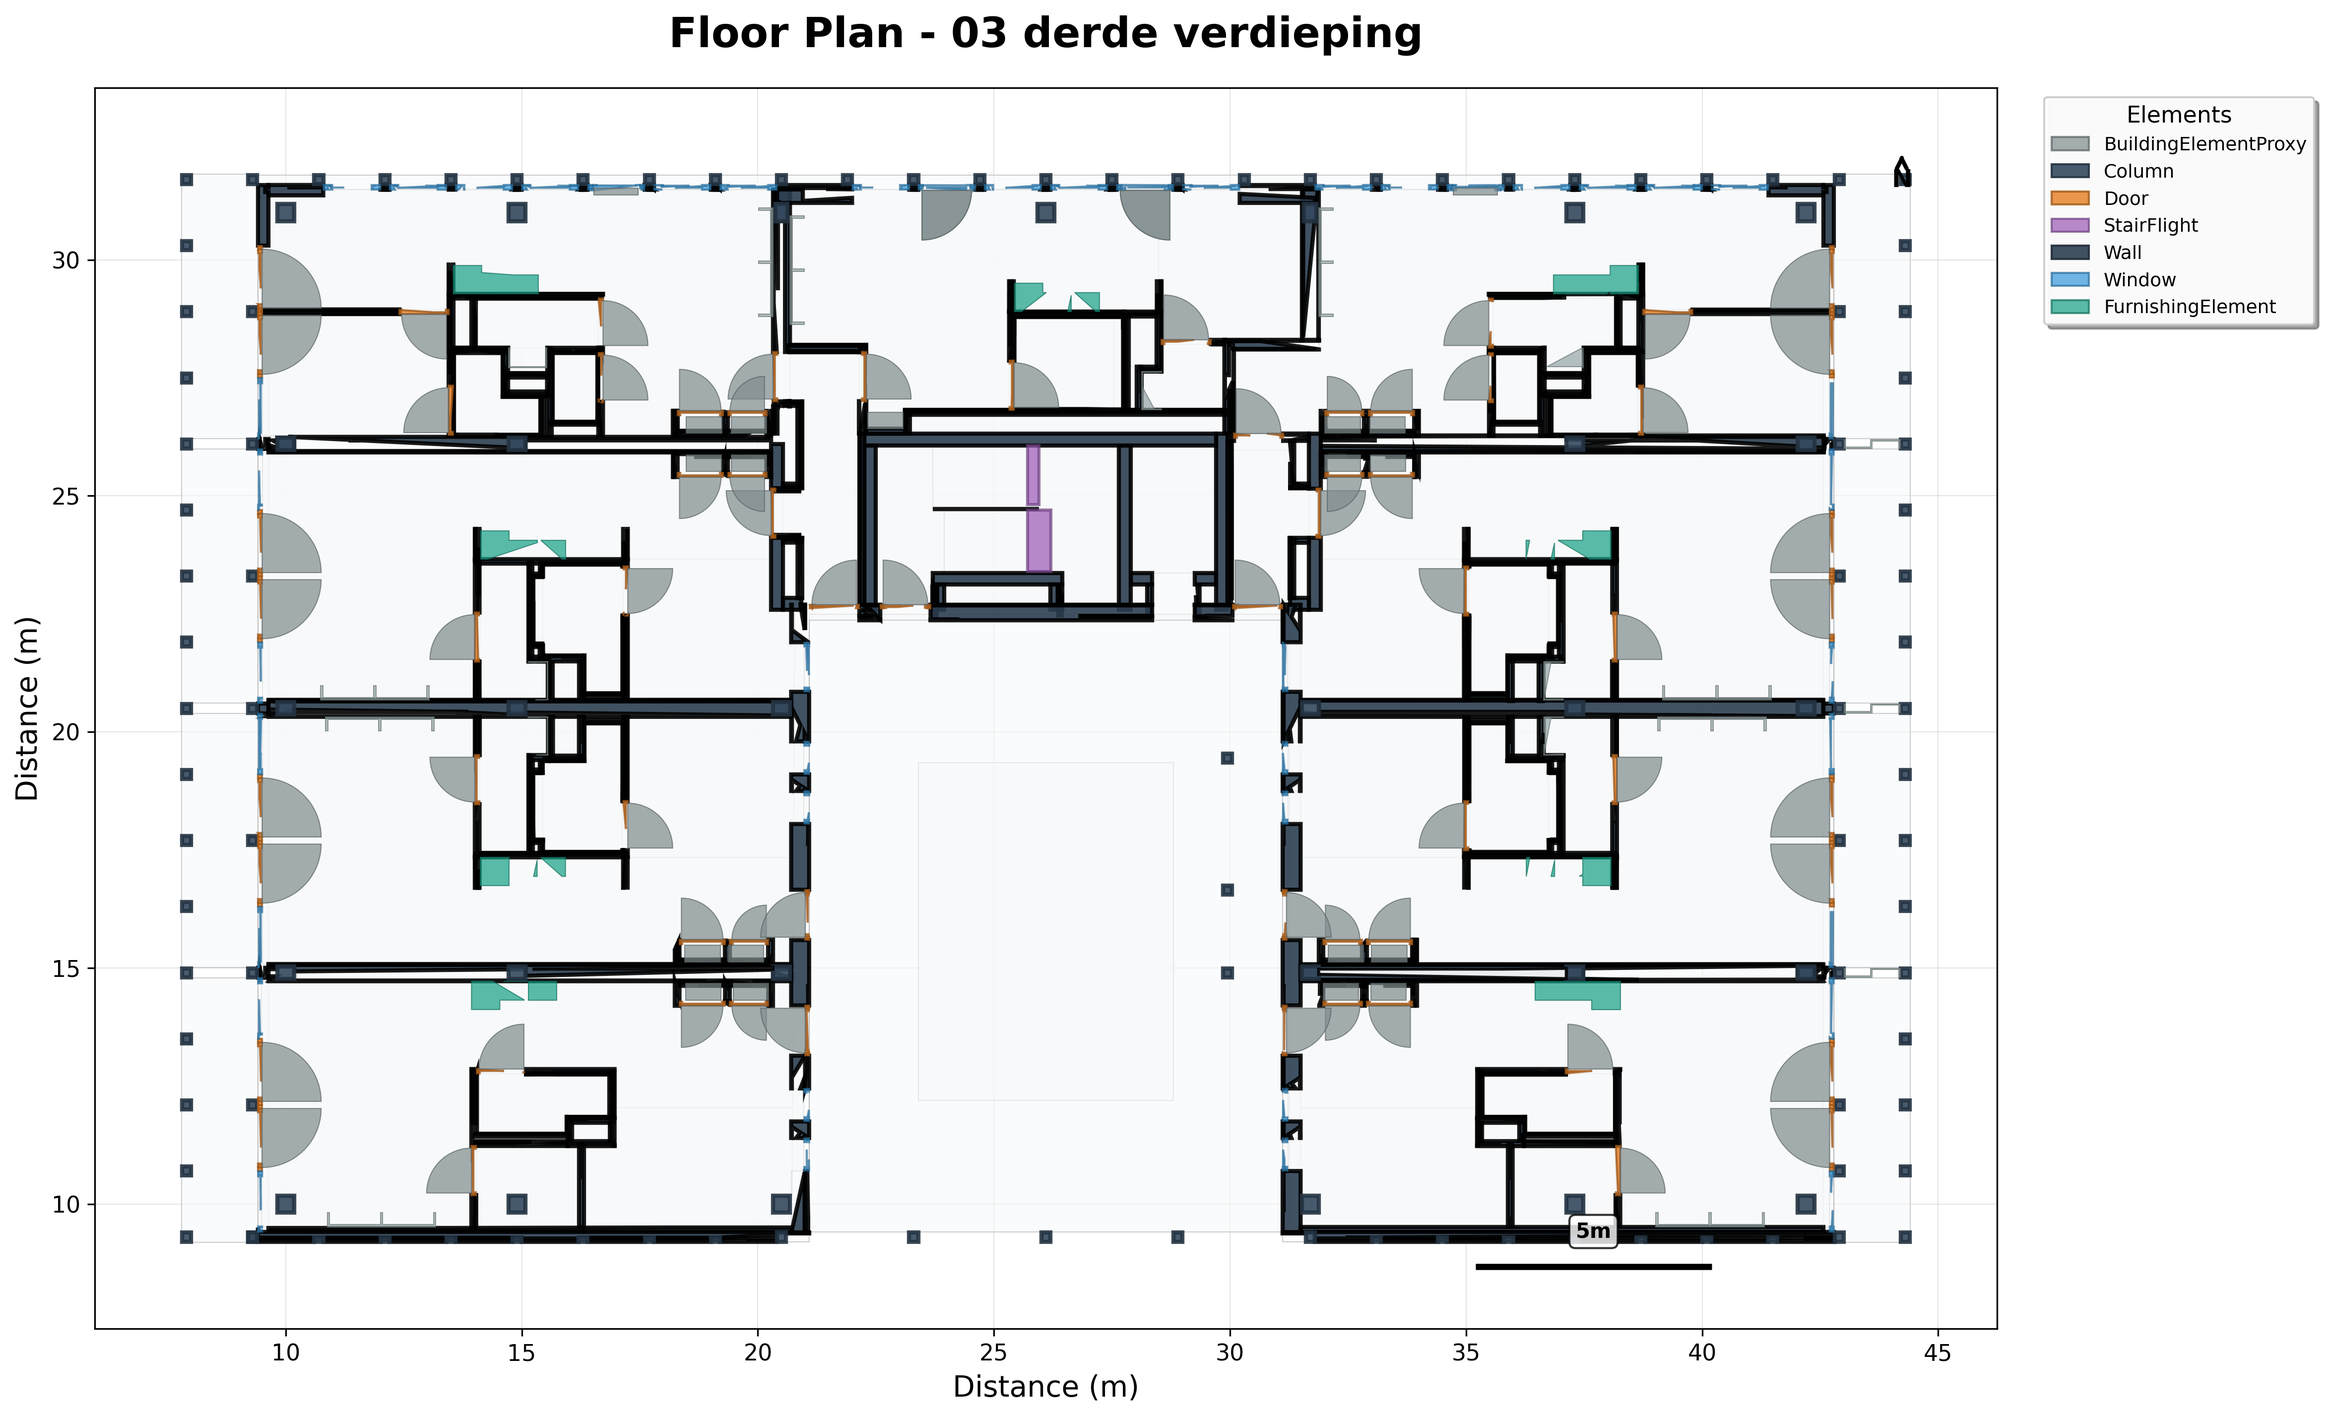
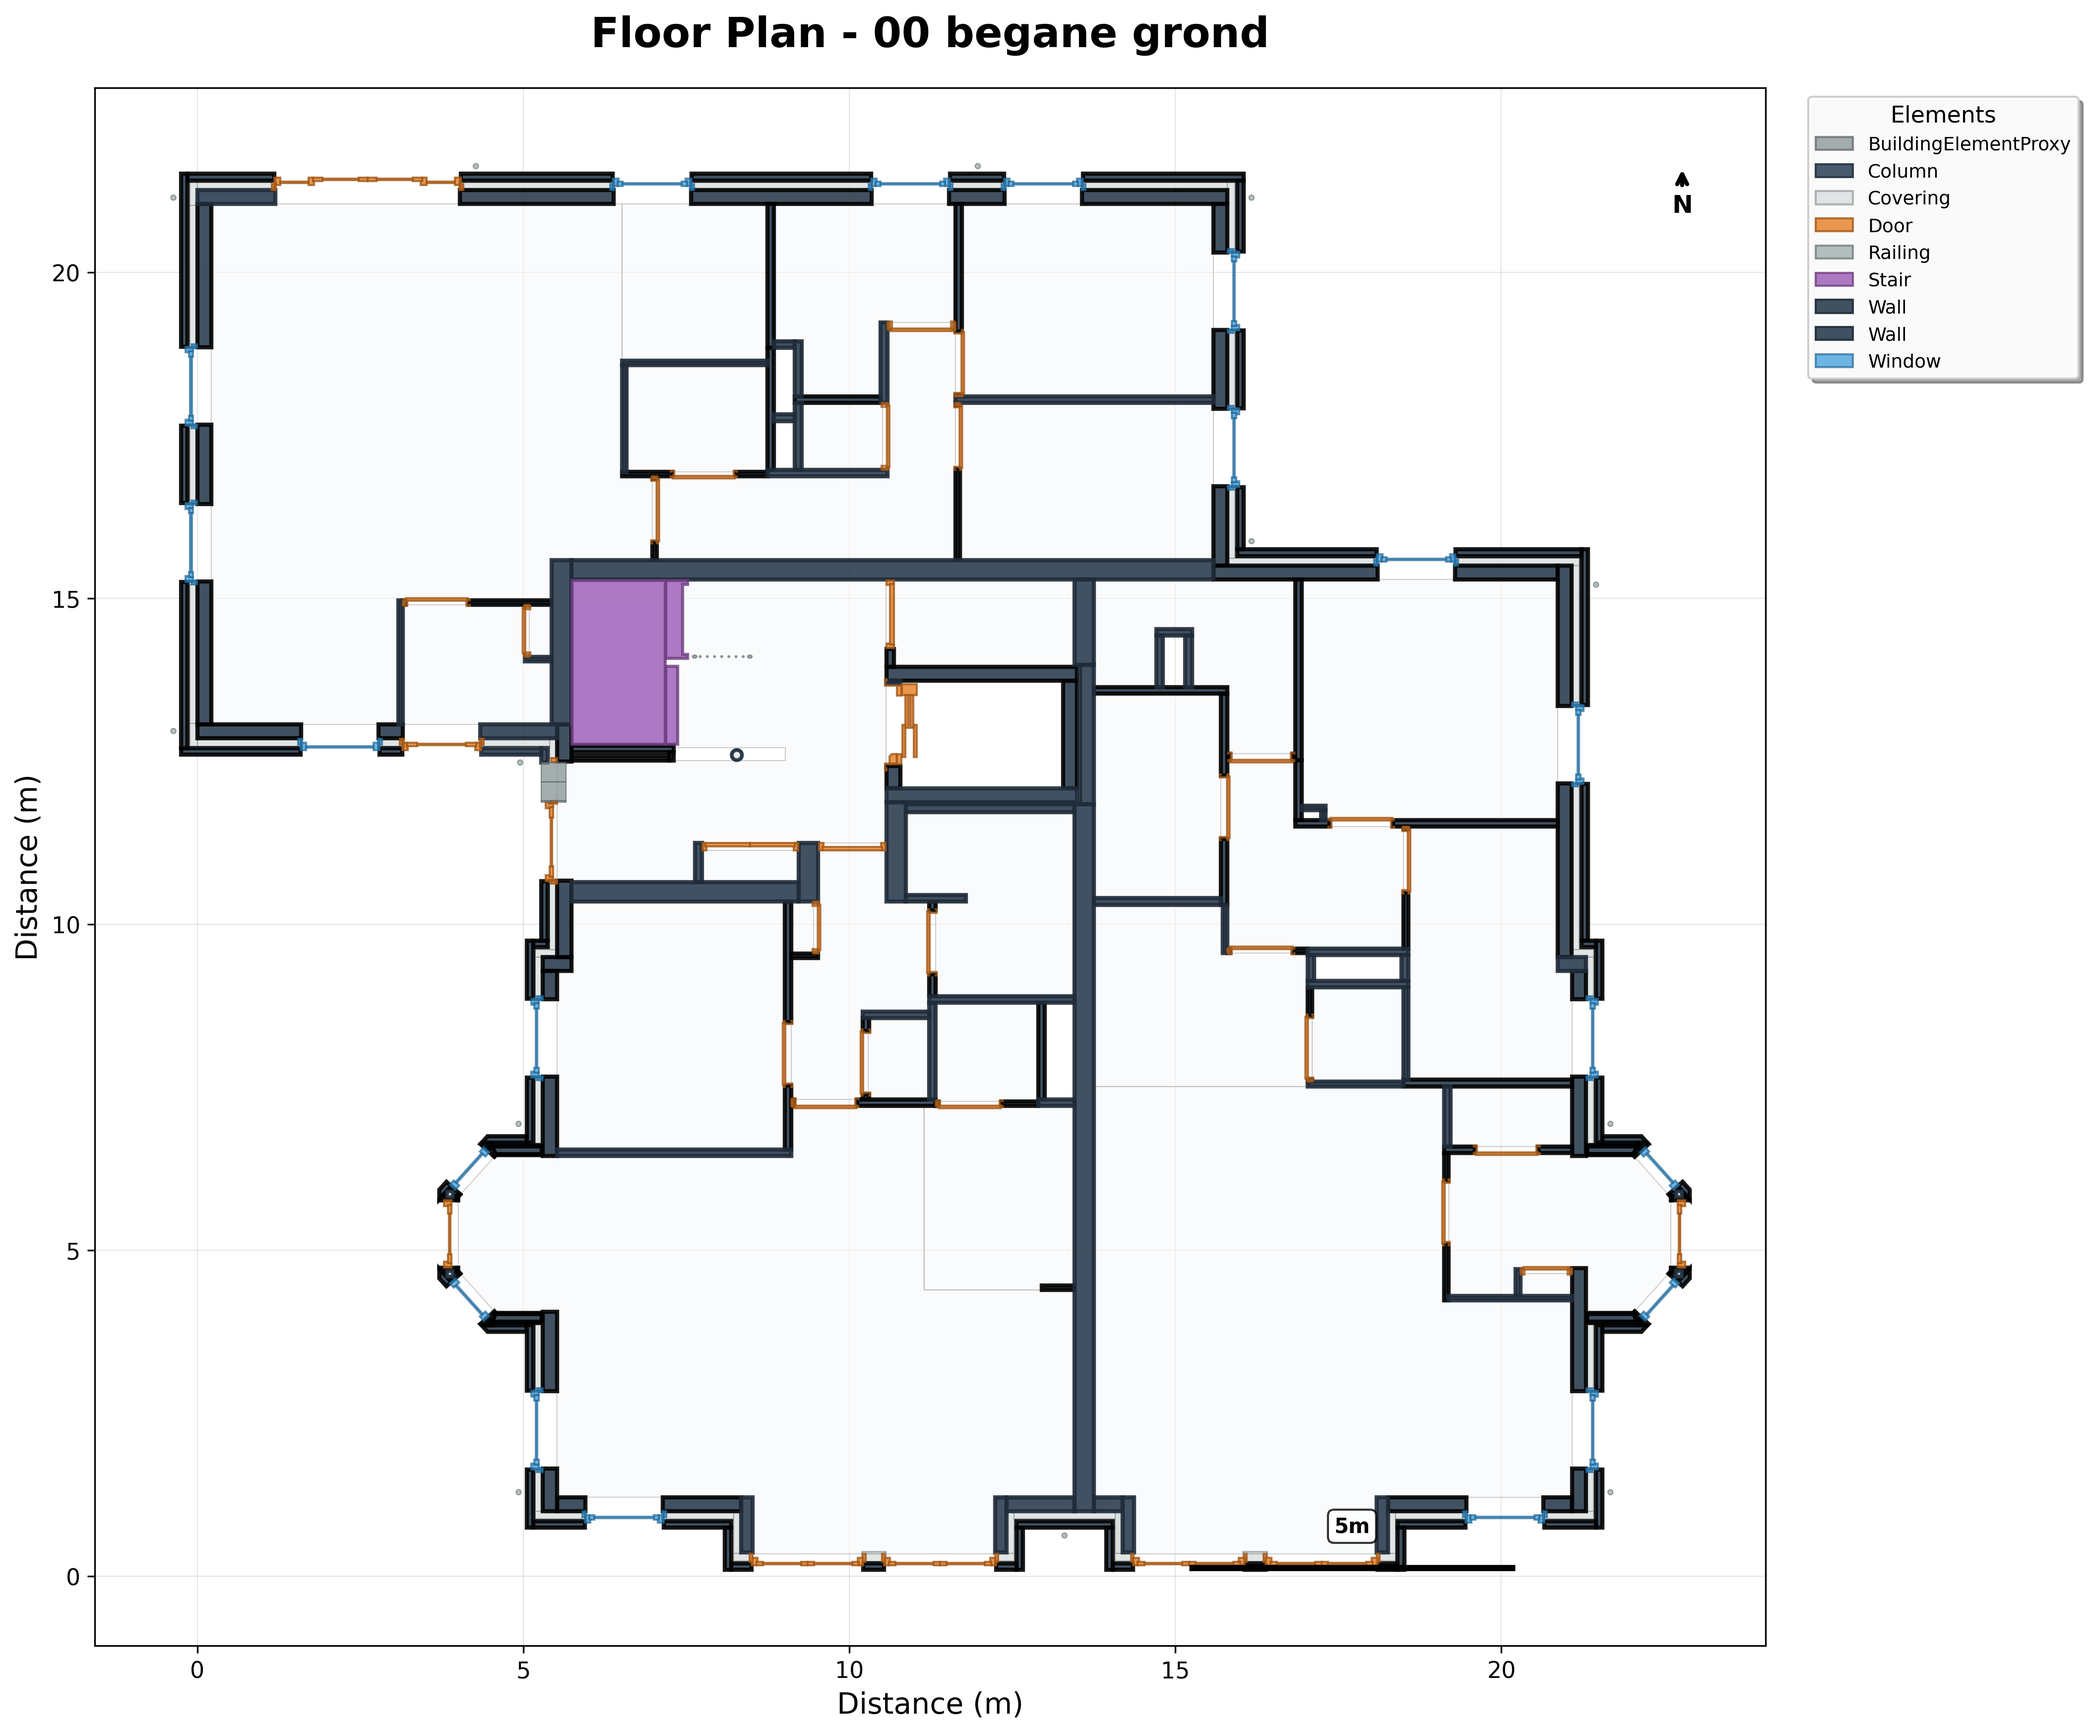
Regenerate the README example images
The three images in assets/ dated from 27 July, before the geometry fixes. They
also came from a model that is not in this repository — a 45 m block with an
inner courtyard, storey "03 derde verdieping" — so nobody reading the README
could reproduce or check them, and the technical view showed the torn door and
window outlines that the vertex-welding fix (#5) removed.

Regenerate all three from the bundled Schependomlaan model instead, ground
floor, so every picture in the README is reproducible with a command the README
itself gives:

  assets/professional.png          --storey 1 --formatter image
  assets/professional_colored.png  --storey 1 --formatter image wkt \
                                   --colored-spaces \
                                   --naming-conversion naming_conversion.csv
  assets/technical.png             --storey 1 --formatter image --style technical

Both quick-start examples were re-pointed from storey 2 to storey 1 to match,
and the output listing now shows the filenames that ground floor produces. The
first two commands were run and their output compared pixel-by-pixel against the
committed files: identical.

Also lift the coloured plan to the top of the README. The audience is people
deciding whether this tool does what they need; a picture answers that faster
than three paragraphs.

Assets shrink from 1.7 MB to 865 KB. (These are the README's own illustrations,
which have always been tracked - not run output, which stays out of git.)

diff --git a/README.md b/README.md
@@ -10,6 +10,11 @@ For each storey of a model, ifc2plan cuts a horizontal section through the build
 - a **floor plan image** (PNG), in one of four drawing styles, optionally coloured by room type
 - a **table of the shapes** (CSV), one row per element, so you can measure, count, or feed it into other tools
 
+![Floor plan of the ground floor of the bundled example model, with rooms coloured by type](assets/professional_colored.png)
+
+*The ground floor of the example building included in this repository — produced by step 3
+below, unedited.*
+
 ## Install
 
 You need **Python 3.9 or newer**.
@@ -35,18 +40,20 @@ elements each one has, and tells you the storey numbers you'll need.
 python src/ifc2plan/extract_floor_plans.py "examples/data/Shependomlaan/IFC Schependomlaan.ifc" --overview
 ```
 
-**2. Draw one floor plan.**
+**2. Draw one floor plan.** Storey `1` is the ground floor of this building — step 1 told
+you that.
 
 ```bash
 python src/ifc2plan/extract_floor_plans.py "examples/data/Shependomlaan/IFC Schependomlaan.ifc" \
-  --storey 2 --formatter image
+  --storey 1 --formatter image
 ```
 
-**3. Draw it with rooms coloured by type, and get the data too.**
+**3. Draw it with rooms coloured by type, and get the data too.** This is the drawing at
+the top of this page.
 
 ```bash
 python src/ifc2plan/extract_floor_plans.py "examples/data/Shependomlaan/IFC Schependomlaan.ifc" \
-  --storey 2 --formatter image wkt --colored-spaces \
+  --storey 1 --formatter image wkt --colored-spaces \
   --naming-conversion naming_conversion.csv
 ```
 
@@ -89,15 +96,15 @@ model. Running example 3 above gives you:
 ```
 output/
 └── IFC Schependomlaan/
-    ├── 01 eerste verdieping_floor_plan.png   # the drawing
-    └── 01 eerste verdieping_floor_plan.csv   # the data
+    ├── 00 begane grond_floor_plan.png   # the drawing
+    └── 00 begane grond_floor_plan.csv   # the data
 ```
 
 With `--both` you get two drawings per storey instead of one, marked `_colored` and `_bw`:
 
 ```
-    ├── 01 eerste verdieping_floor_plan_colored.png
-    └── 01 eerste verdieping_floor_plan_bw.png
+    ├── 00 begane grond_floor_plan_colored.png
+    └── 00 begane grond_floor_plan_bw.png
 ```
 
 Each row of the CSV is one element, with these columns:
@@ -143,15 +150,20 @@ row still appear in the output — you'll see them under their original name in 
 Every style can be combined with `--colored-spaces` except `technical`.
 
 <details>
-<summary>📸 Example outputs</summary>
+<summary>📸 Compare the styles</summary>
 
-**Professional** — default, uniform space colouring
+All three are the ground floor of the bundled model, so you can reproduce any of them by
+swapping the `--style` and `--colored-spaces` settings.
+
+**Professional** — the default. Rooms share one fill; doors and windows are picked out in
+colour.
 ![Professional floor plan example](assets/professional.png)
 
-**Professional with `--colored-spaces`** — each room type in its own colour
+**Professional with `--colored-spaces`** — each room type gets its own colour and a legend
+entry.
 ![Coloured floor plan example](assets/professional_colored.png)
 
-**Technical** — line drawing
+**Technical** — outlines only, like a drafting sheet.
 ![Technical floor plan example](assets/technical.png)
 
 </details>
